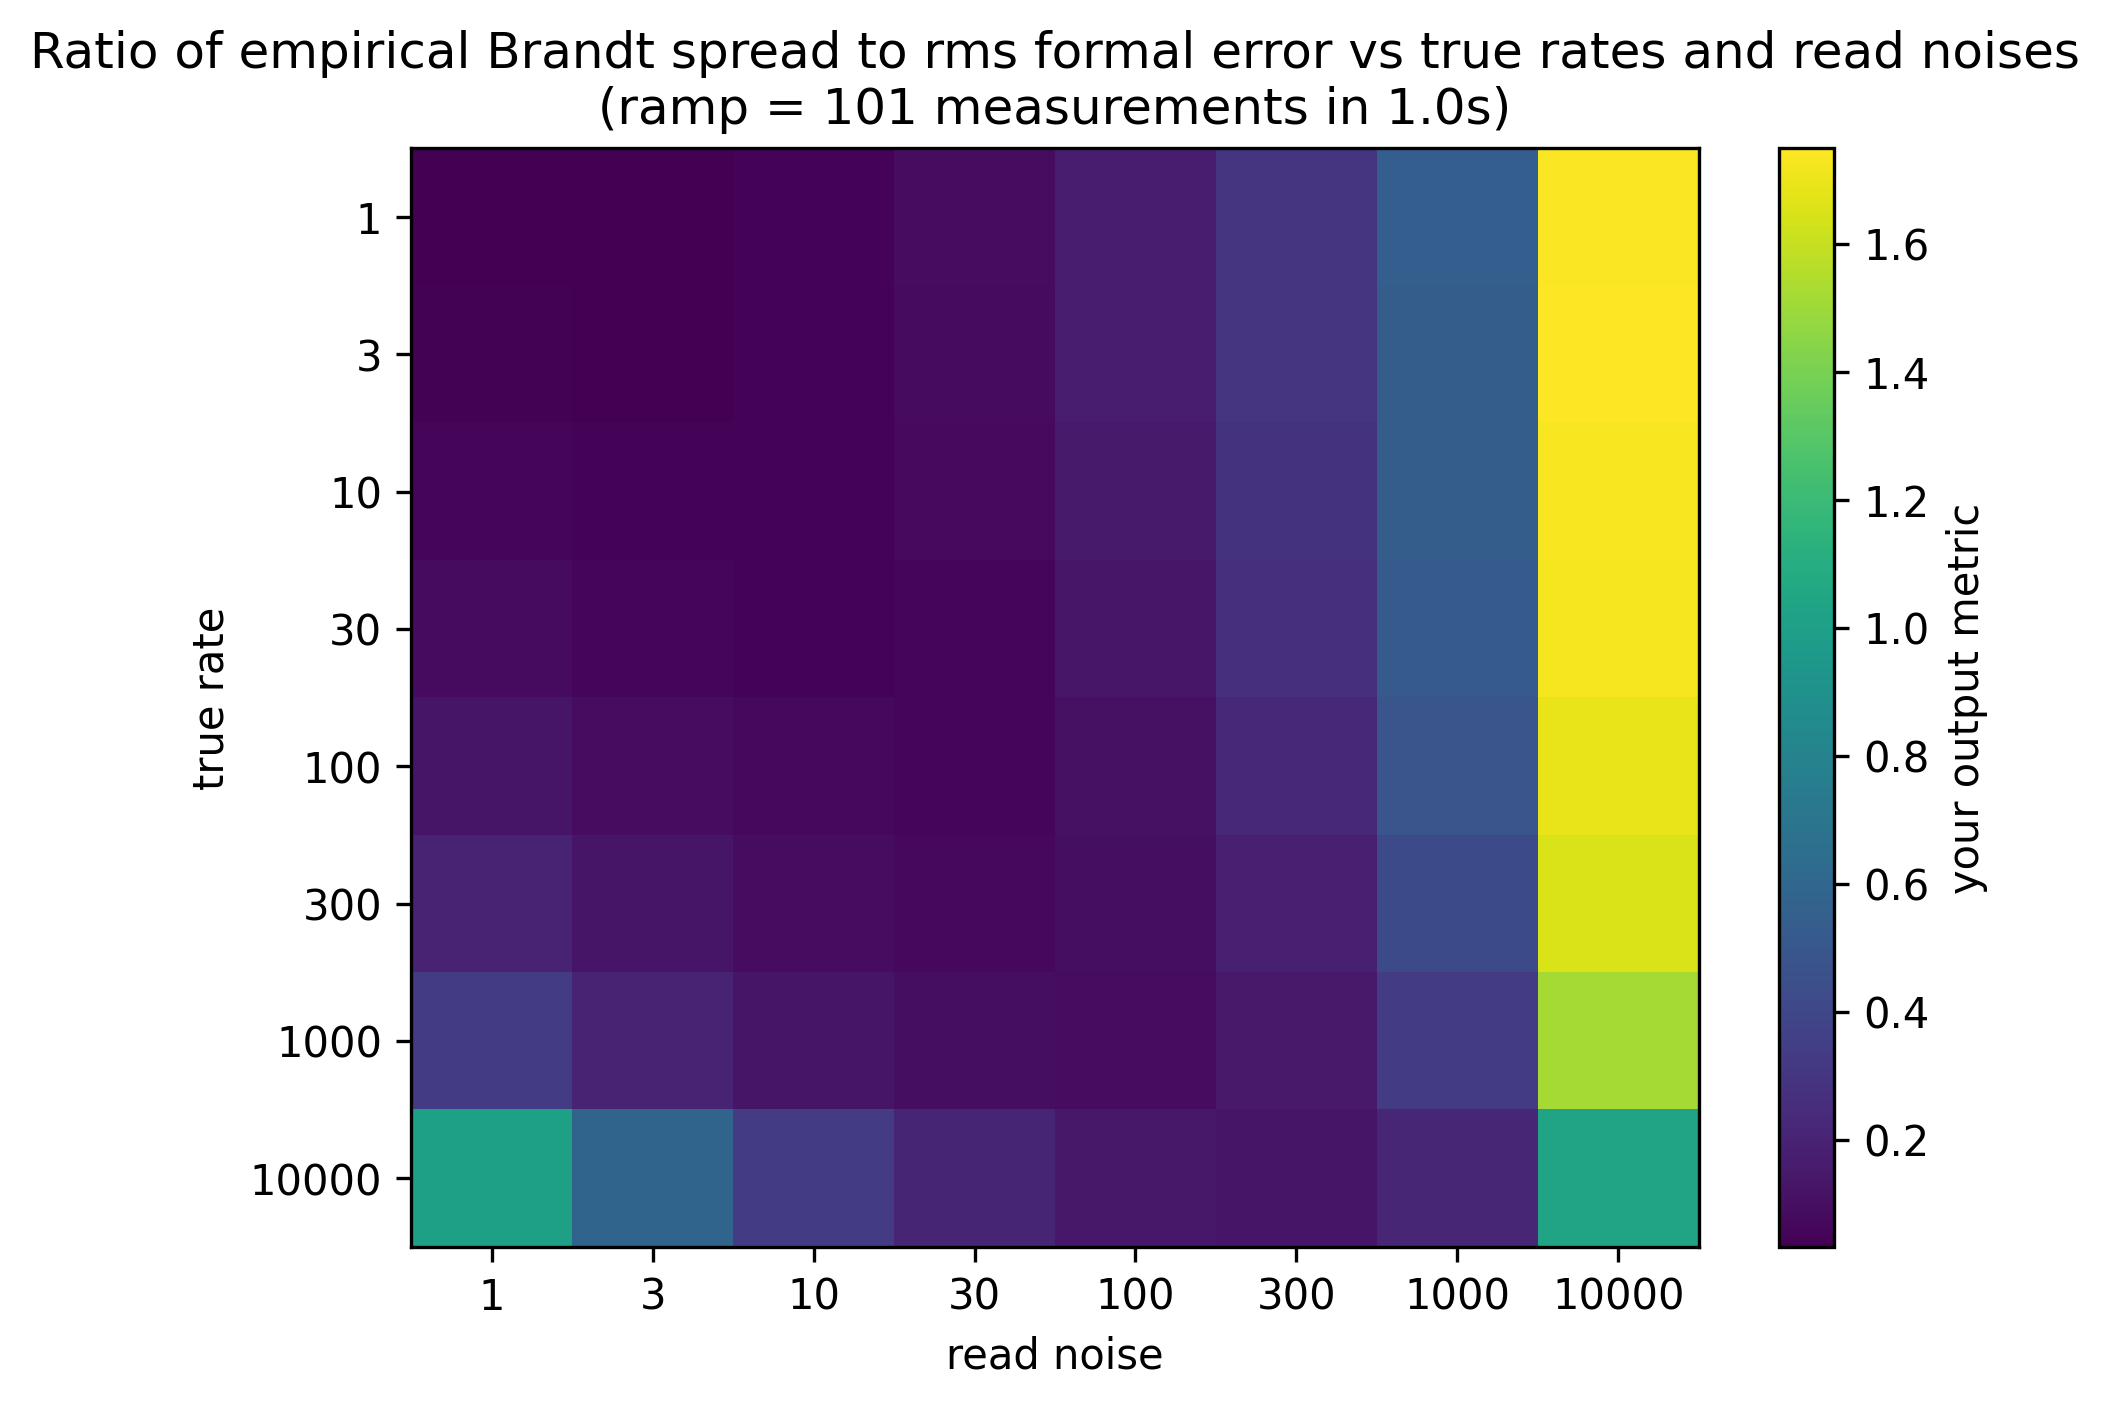
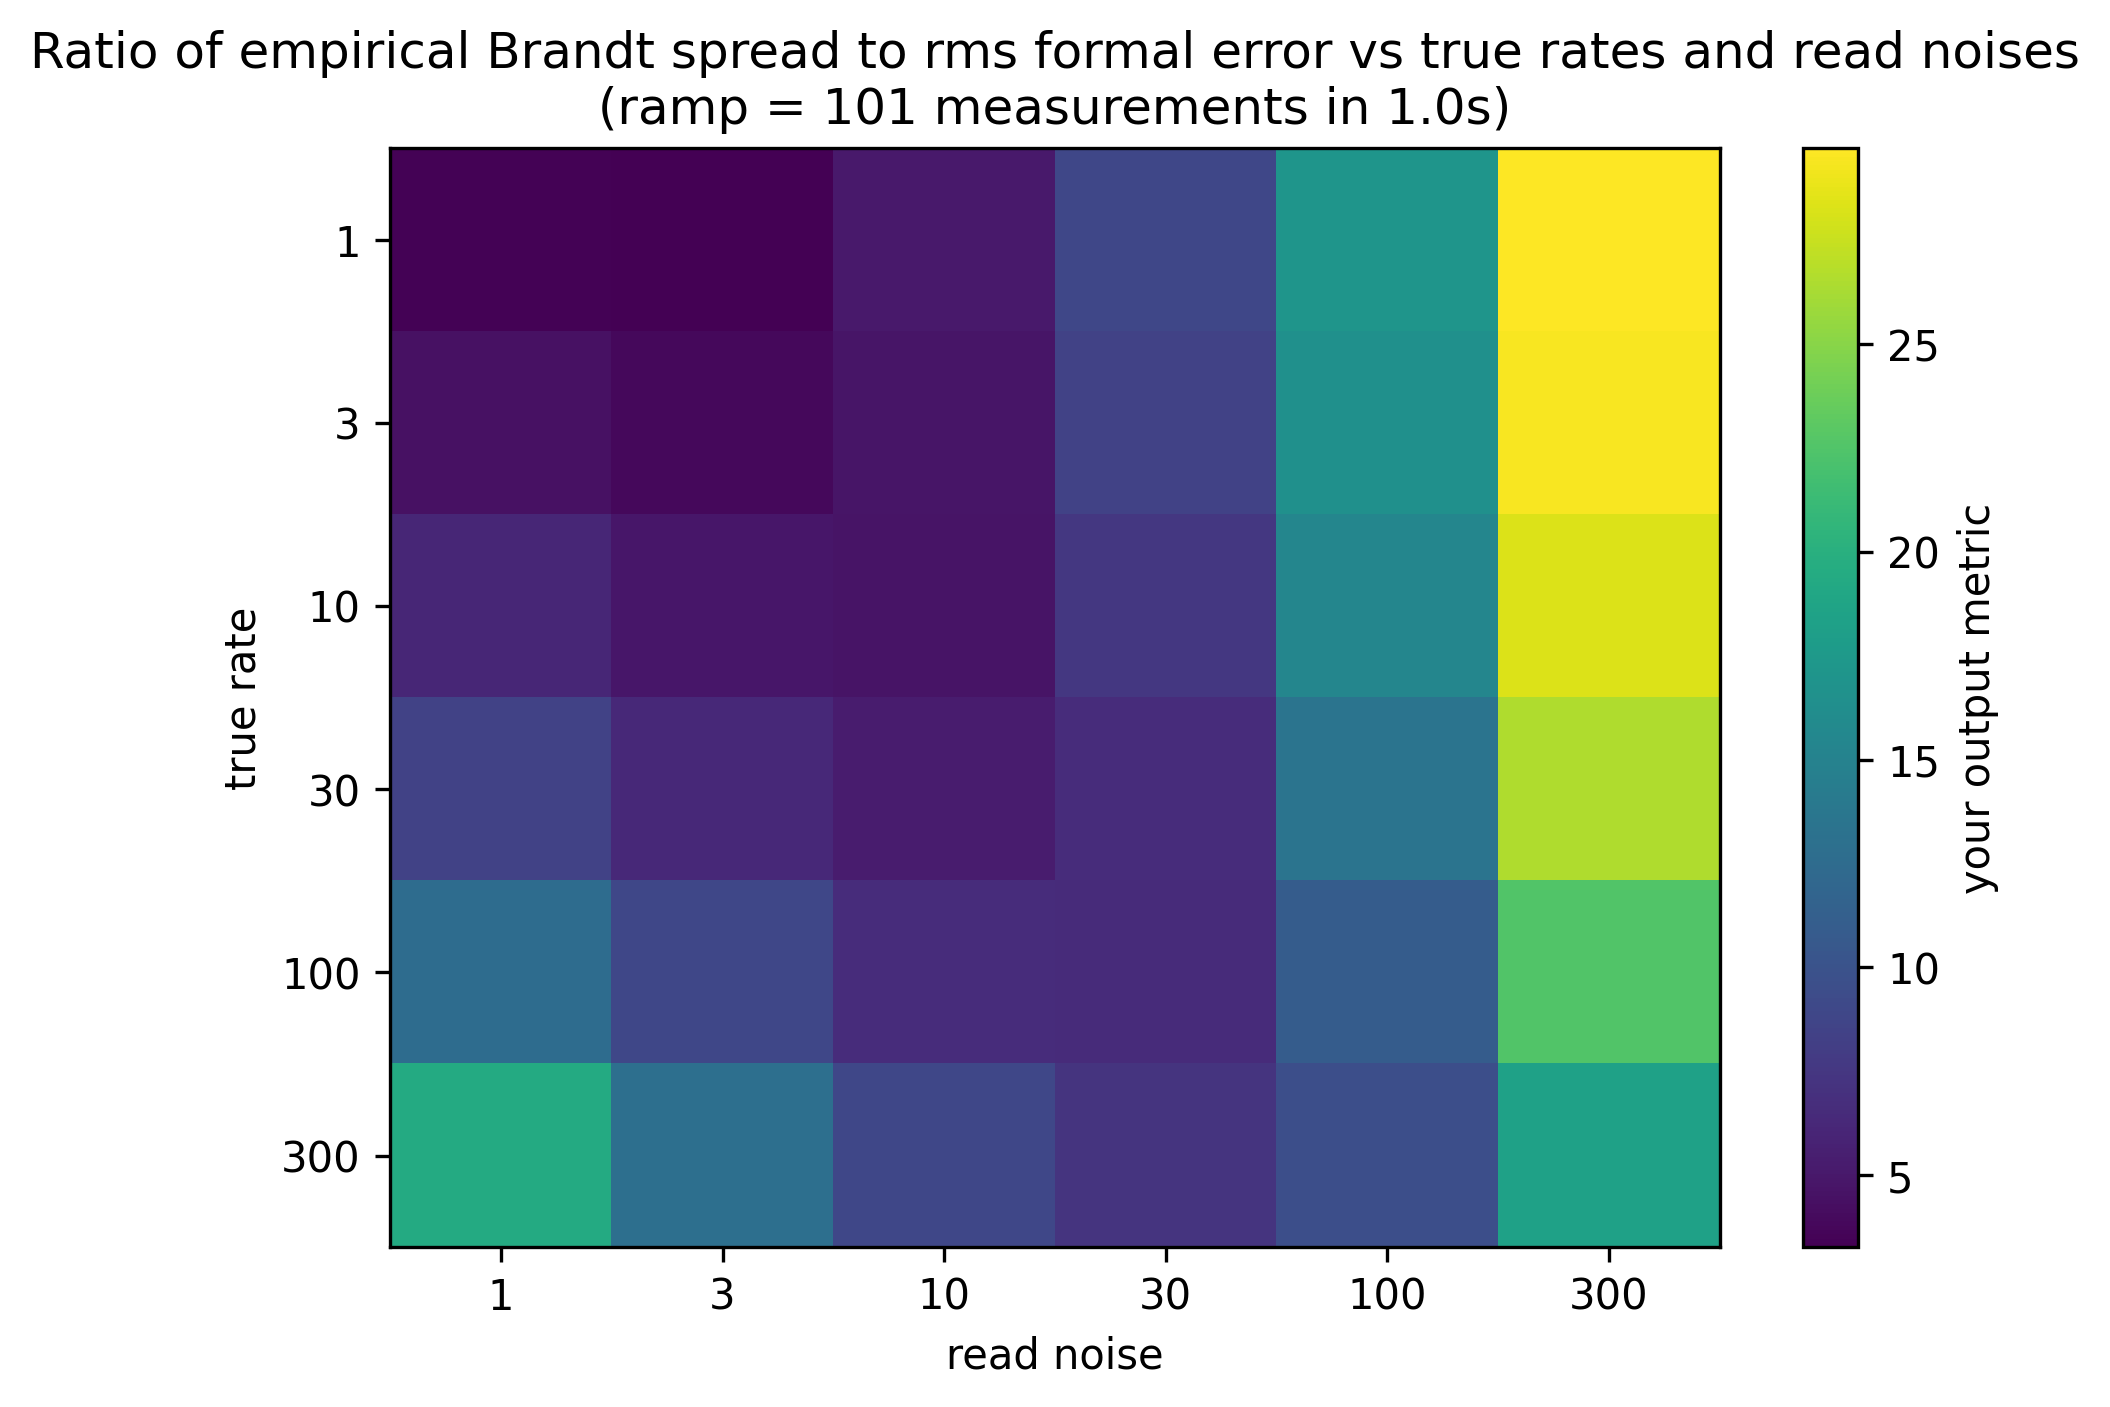
remove extreme saturating values

diff --git a/formal_error_ratio_heatmap.py b/formal_error_ratio_heatmap.py
@@ -12,8 +12,8 @@ import argparse
 import json
 import scipy
 
-true_freq_list = [1, 3, 10, 30, 100, 300, 1000, 10000]
-read_noise_list = [1, 3, 10, 30, 100, 300, 1000, 10000]
+true_freq_list = [1, 3, 10, 30, 100, 300]
+read_noise_list = [1, 3, 10, 30, 100, 300] # Highest read noise saturates
 grid = np.zeros((len(true_freq_list), len(read_noise_list)))
 for i in range(len(true_freq_list)):
     freq = true_freq_list[i]
@@ -24,9 +24,9 @@ for i in range(len(true_freq_list)):
         with open(input_file) as json_data:
             d = json.load(json_data)
             print(type(d))
-            brandt_stderr = d["brandt_stderr"]
+            brandt_stdev = d["brandt_stdev"]
             rms_slope_error = d["rms_slope_error"]
-            ratio = brandt_stderr / rms_slope_error
+            ratio = brandt_stdev / rms_slope_error
             print(f"Ratio = {ratio}")
             grid[i][j] = ratio
 
